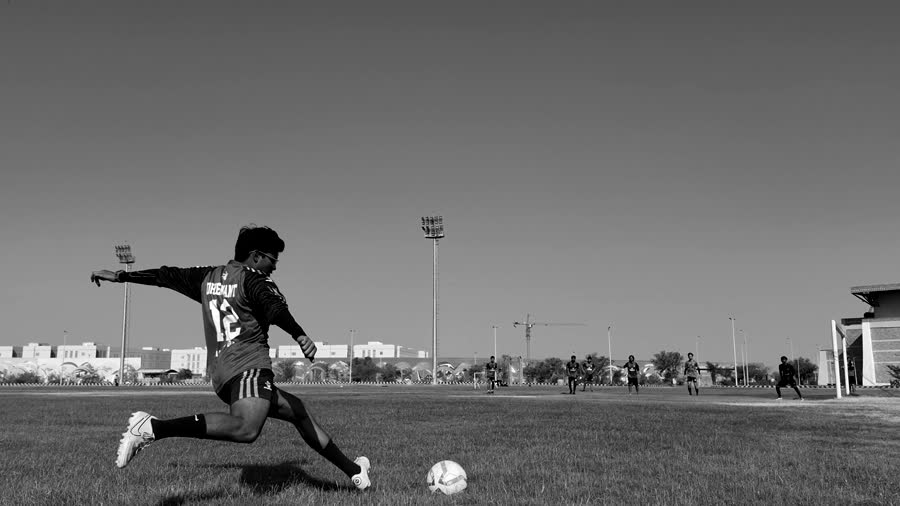
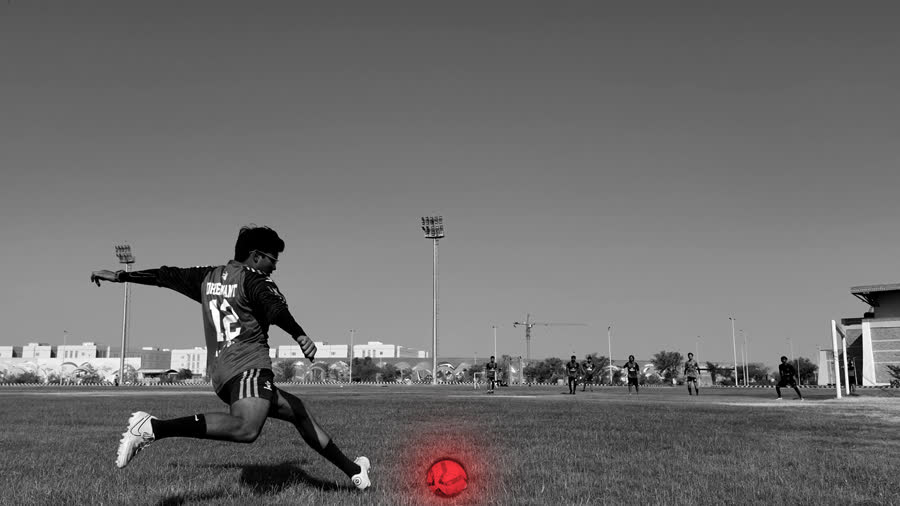
Highlight the football in red on the hero photo

Changed region(s): [[0.4356, 0.8597, 0.56, 1.0]]

diff --git a/style.css b/style.css
@@ -96,15 +96,16 @@ img, video { display: block; max-width: 100%; }
 .hero-inner, .scroll-cue { z-index: 2; }
 .hero::before {
   background: url("assets/hero-bg.jpg") 28% 62% / cover no-repeat;
+  -webkit-mask-image: linear-gradient(to bottom, #000 96%, transparent 100%); mask-image: linear-gradient(to bottom, #000 96%, transparent 100%);
   animation: heroin 1.6s ease-out both;
 }
 .hero::after {
   background:
-    linear-gradient(to bottom, rgba(11,10,10,.75) 0%, rgba(11,10,10,.35) 30%, rgba(11,10,10,.45) 65%, var(--bg) 100%),
+    linear-gradient(to bottom, rgba(11,10,10,.75) 0%, rgba(11,10,10,.35) 30%, rgba(11,10,10,.4) 80%, rgba(11,10,10,.55) 97%, var(--bg) 100%),
     radial-gradient(ellipse at 50% 55%, rgba(11,10,10,.55), transparent 70%);
 }
 @keyframes heroin { from { opacity: 0; transform: scale(1.04); } to { opacity: 1; transform: none; } }
-@media (max-width: 760px) { .hero::before { background-image: url("assets/hero-bg-small.jpg"); background-size: 260% auto; background-position: 16% 100%; -webkit-mask-image: linear-gradient(to bottom, transparent 38%, #000 62%); mask-image: linear-gradient(to bottom, transparent 38%, #000 62%); } }
+@media (max-width: 760px) { .hero::before { background-image: url("assets/hero-bg-small.jpg"); background-size: 230% auto; background-position: 21% 100%; -webkit-mask-image: linear-gradient(to bottom, transparent 42%, #000 66%, #000 96%, transparent 100%); mask-image: linear-gradient(to bottom, transparent 42%, #000 66%, #000 96%, transparent 100%); } }
 .hero-inner { position: relative; text-align: center; pointer-events: none; }
 .hero-id { display: flex; align-items: center; justify-content: center; gap: clamp(16px, 3vw, 44px); }
 .hero-mark { width: min(300px, 27vw); flex: none; margin: 0; overflow: visible; }
